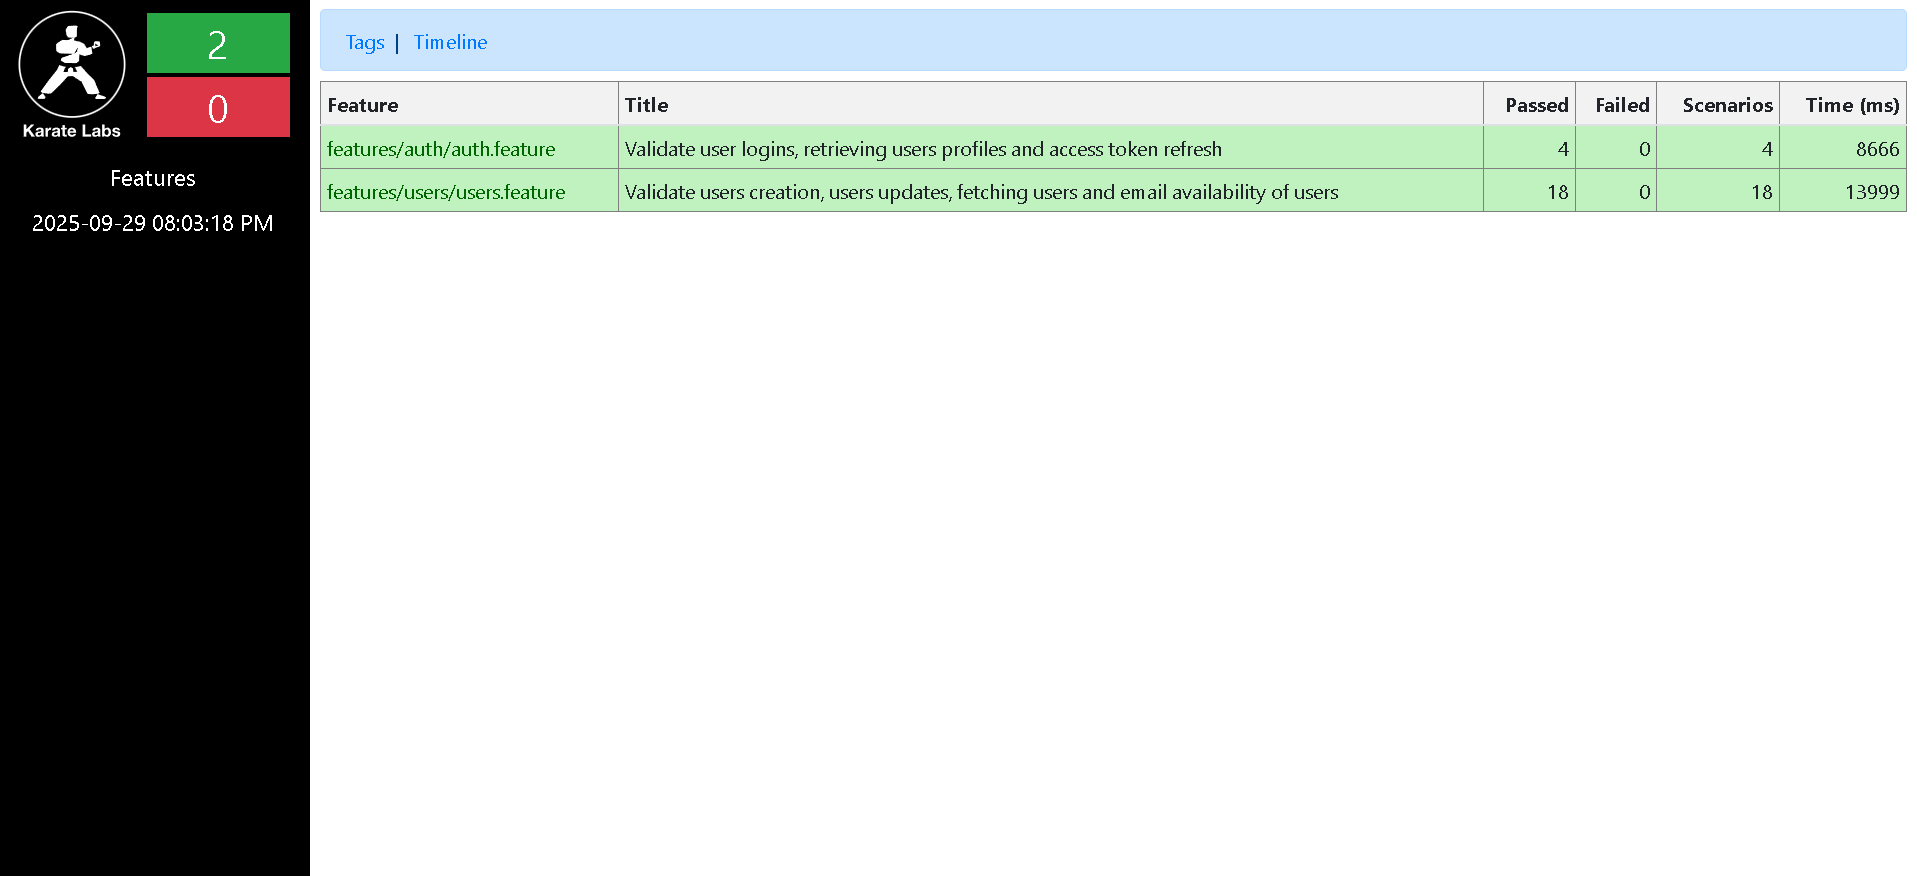
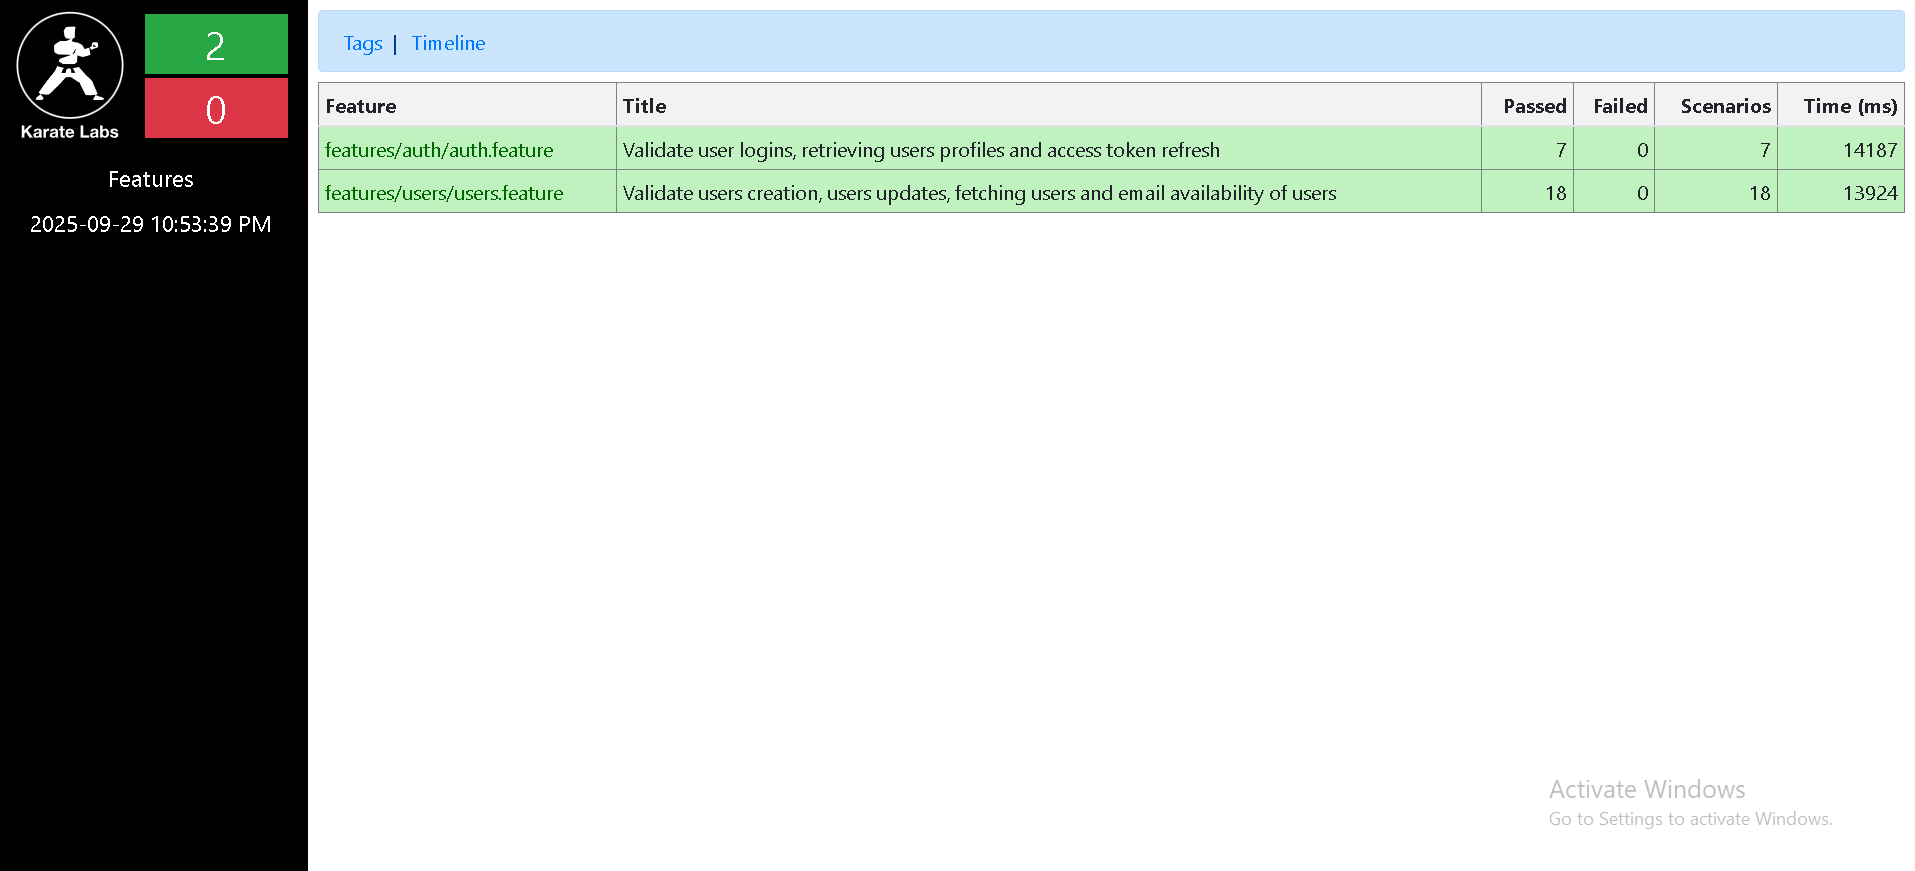
add tests results

diff --git a/src/test/java/runners/testRunner.java b/src/test/java/runners/testRunner.java
@@ -1,2 +1,14 @@
-package runners;public class testRunner {
+package runners;
+import com.intuit.karate.Results;
+import com.intuit.karate.Runner;
+import static org.junit.jupiter.api.Assertions.*;
+import org.junit.jupiter.api.Test;
+
+public class testRunner {
+    @Test
+    void testParallel() {
+        Results results = Runner.path("classpath:features/auth/auth.feature", "classpath:features/users/users.feature").tags("@regression").parallel(5);
+        assertEquals(0, results.getFailCount(), results.getErrorMessages());
+
+    }
 }
